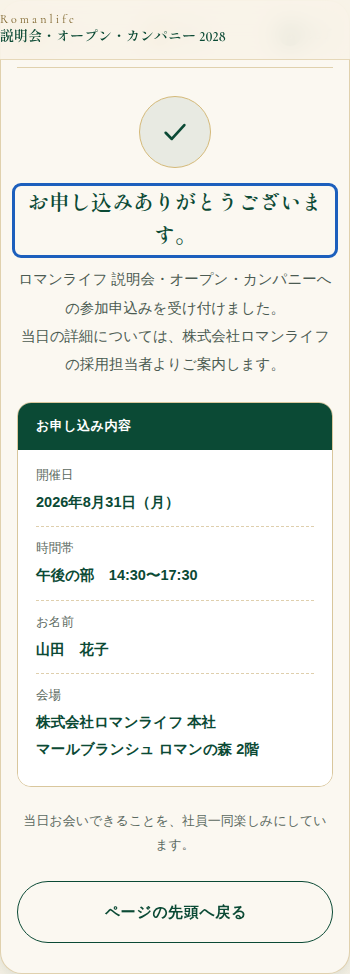
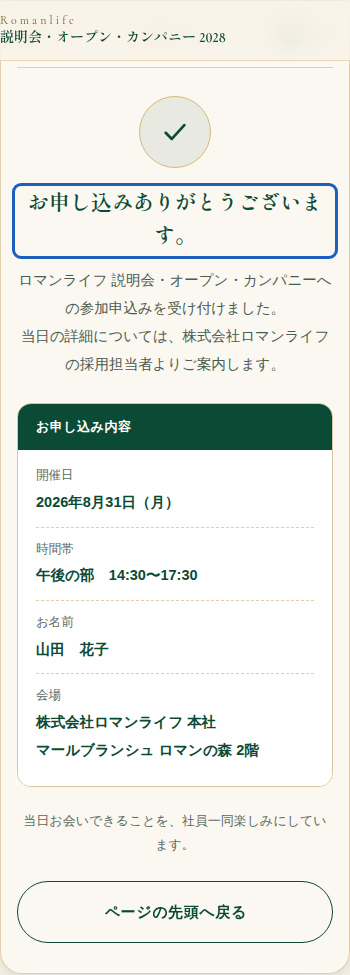
feat: 卒業予定年月の選択肢を2027年3月〜2030年3月へ変更
- 2028年3月／2027年9月／2028年9月 → 2027年3月／2028年3月／2029年3月／2030年3月
- 「その他」は残し、自由入力の例を2031年3月へ更新
- src/data/event.ts の GRADUATION_OPTIONS を変更したため、
  サーバー側の検証（Zod）とNext.js版の選択肢も同時に切り替わる
- static-lp / image-lp の option も同じ並びへ

確認: 型チェック・ビルド成功。next start 経由で「2029年3月卒業予定」を選び、
入力→確認→送信→完了と保存内容が正しいことを確認

Claude-Session: https://claude.ai/code/session_015d8YPaoft4QzEwSfga62S2

diff --git a/image-lp/index.html b/image-lp/index.html
@@ -320,9 +320,10 @@
               <div class="f-label"><label for="graduation">卒業予定年月</label><span class="req">必須</span></div>
               <div class="f-in"><select class="sel" id="graduation" name="graduation" aria-required="true">
                 <option value="">選択してください</option>
+                <option value="2027年3月卒業予定">2027年3月卒業予定</option>
                 <option value="2028年3月卒業予定">2028年3月卒業予定</option>
-                <option value="2027年9月卒業予定">2027年9月卒業予定</option>
-                <option value="2028年9月卒業予定">2028年9月卒業予定</option>
+                <option value="2029年3月卒業予定">2029年3月卒業予定</option>
+                <option value="2030年3月卒業予定">2030年3月卒業予定</option>
                 <option value="その他">その他</option>
               </select></div>
               <p class="f-help">本イベントは2028年卒業予定の方を対象としています。</p>
@@ -330,7 +331,7 @@
 
             <div class="f-row" id="field-graduationOther" hidden>
               <div class="f-label"><label for="graduationOther">卒業予定年月（その他）</label><span class="req">必須</span></div>
-              <div class="f-in"><input class="inp" id="graduationOther" name="graduationOther" type="text" placeholder="例）2029年3月卒業予定"></div>
+              <div class="f-in"><input class="inp" id="graduationOther" name="graduationOther" type="text" placeholder="例）2031年3月卒業予定"></div>
             </div>
 
             <div class="f-row" id="field-email">

diff --git a/static-lp/index.html b/static-lp/index.html
@@ -1081,9 +1081,10 @@
             <div class="f-label"><label for="graduation">卒業予定年月</label><span class="req">必須</span></div>
             <div class="f-in"><select class="sel" id="graduation" name="graduation" aria-required="true">
               <option value="">選択してください</option>
+              <option value="2027年3月卒業予定">2027年3月卒業予定</option>
               <option value="2028年3月卒業予定">2028年3月卒業予定</option>
-              <option value="2027年9月卒業予定">2027年9月卒業予定</option>
-              <option value="2028年9月卒業予定">2028年9月卒業予定</option>
+              <option value="2029年3月卒業予定">2029年3月卒業予定</option>
+              <option value="2030年3月卒業予定">2030年3月卒業予定</option>
               <option value="その他">その他</option>
             </select></div>
             <p class="f-help">本イベントは2028年卒業予定の方を対象としています。</p>
@@ -1091,7 +1092,7 @@
 
           <div class="f-row" id="field-graduationOther" hidden>
             <div class="f-label"><label for="graduationOther">卒業予定年月（その他）</label><span class="req">必須</span></div>
-            <div class="f-in"><input class="inp" id="graduationOther" name="graduationOther" type="text" placeholder="例）2029年3月卒業予定"></div>
+            <div class="f-in"><input class="inp" id="graduationOther" name="graduationOther" type="text" placeholder="例）2031年3月卒業予定"></div>
           </div>
 
           <div class="f-row" id="field-email">

diff --git a/src/data/event.ts b/src/data/event.ts
@@ -122,9 +122,10 @@ export const EVENT = {
 
 /** 卒業予定年月の選択肢（初期値は先頭） */
 export const GRADUATION_OPTIONS = [
+  '2027年3月卒業予定',
   '2028年3月卒業予定',
-  '2027年9月卒業予定',
-  '2028年9月卒業予定',
+  '2029年3月卒業予定',
+  '2030年3月卒業予定',
   'その他',
 ] as const;
 
